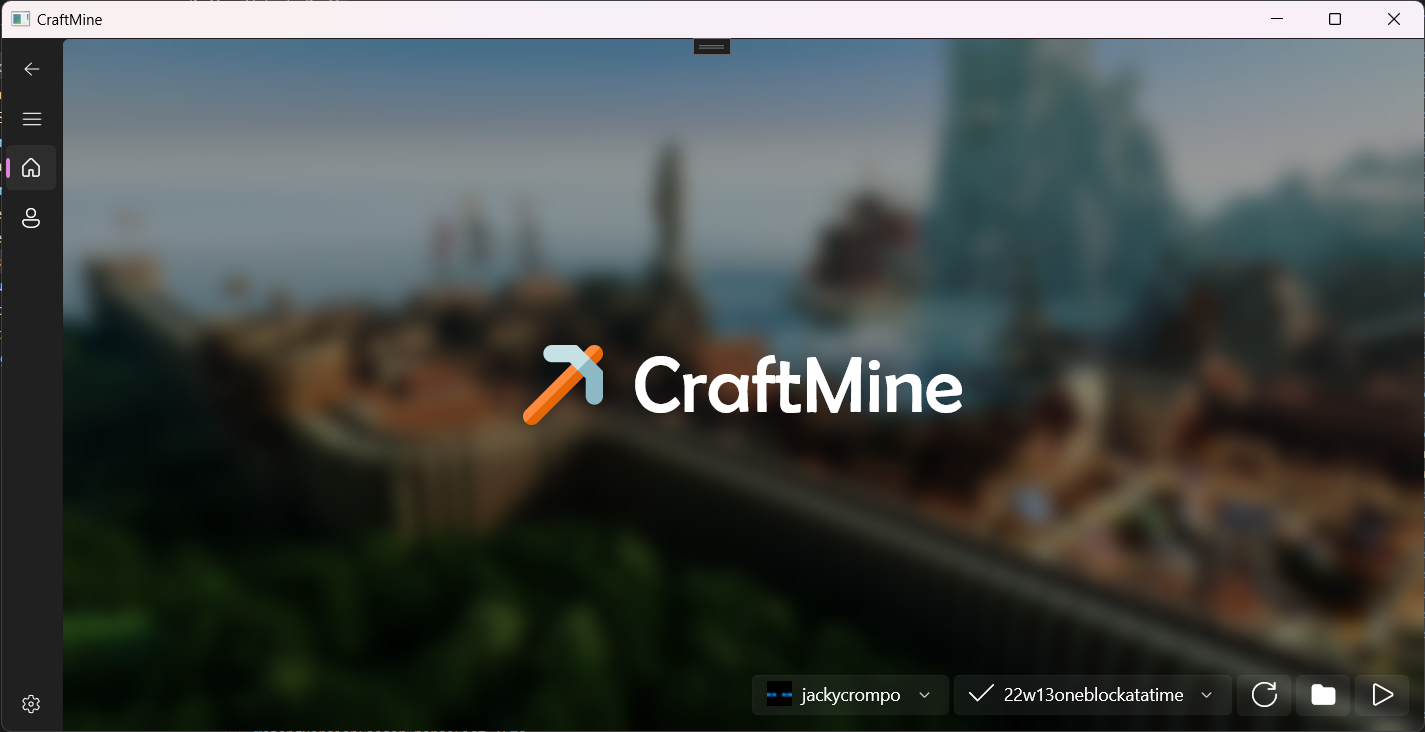
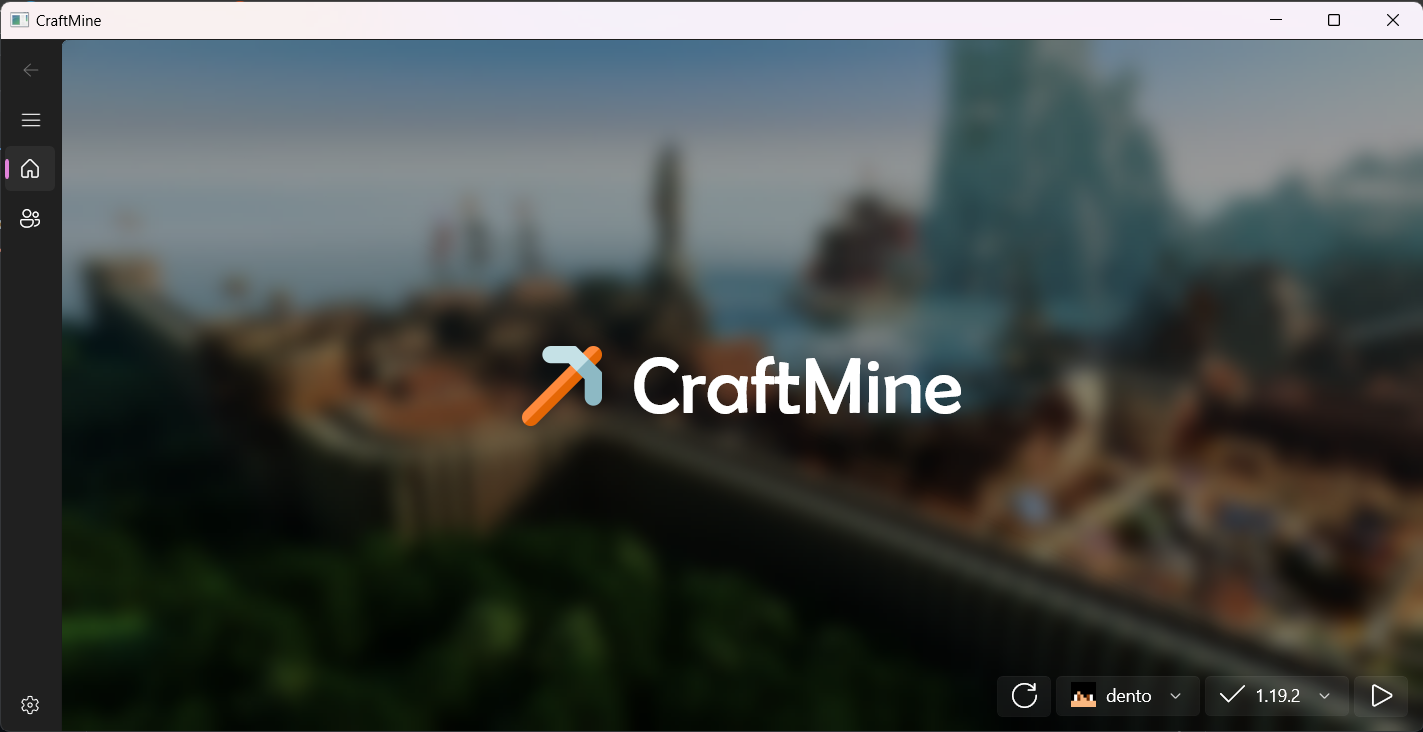
Fixed some issues

diff --git a/CraftMine/Pages/HomePage.xaml b/CraftMine/Pages/HomePage.xaml
@@ -4,7 +4,8 @@
       xmlns:interactivity="using:Microsoft.Xaml.Interactivity"
       xmlns:media="using:CommunityToolkit.WinUI.UI.Media"
       xmlns:models="using:CraftMine.Models"
-      x:Class="CraftMine.Pages.HomePage">
+      x:Class="CraftMine.Pages.HomePage"
+      NavigationCacheMode="Required">
     <Page.DataContext>
         <models:HomePageModel/>
     </Page.DataContext>
@@ -44,13 +45,20 @@
                 </interactions:DataTriggerBehavior>
             </interactivity:Interaction.Behaviors>
             <TextBlock Text="{Binding StatusText}"/>
-            <ProgressBar Value="{Binding StatusProgress}" Width="300"/>
+            <ProgressBar Value="{Binding StatusProgress}"
+                         Width="300"
+                         HorizontalAlignment="Left"/>
         </StackPanel>
         <StackPanel Spacing="4"
                     Orientation="Horizontal"
                     Margin="12"
                     HorizontalAlignment="Right"
                     VerticalAlignment="Bottom">
+            <Button Command="{Binding ReloadCommand}"
+                    HorizontalAlignment="Stretch"
+                    ToolTipService.ToolTip="Reload Accounts &amp; Versions">
+                <SymbolIcon Symbol="Refresh"/>
+            </Button>
             <ComboBox ItemsSource="{Binding Accounts}"
                       SelectedItem="{Binding Account, Mode=TwoWay}">
                 <ComboBox.ItemTemplate>
@@ -73,16 +81,6 @@
                     </DataTemplate>
                 </ComboBox.ItemTemplate>
             </ComboBox>
-            <Button Command="{Binding ReloadCommand}"
-                    HorizontalAlignment="Stretch"
-                    ToolTipService.ToolTip="Reload Accounts &amp; Versions">
-                <SymbolIcon Symbol="Refresh"/>
-            </Button>
-            <Button Command="{Binding OpenGameDirectoryCommand}"
-                    HorizontalAlignment="Stretch"
-                    ToolTipService.ToolTip="Open Game Directory">
-                <SymbolIcon Symbol="Folder"/>
-            </Button>
             <Button Command="{Binding LaunchCommand}"
                     HorizontalAlignment="Stretch"
                     ToolTipService.ToolTip="Launch Game">

diff --git a/CraftMine/Pages/SettingsPage.xaml b/CraftMine/Pages/SettingsPage.xaml
@@ -24,6 +24,12 @@
                             <TextBlock Text="Open Launcher Directory"/>
                         </StackPanel>
                     </Button>
+                    <Button Command="{Binding OpenGameDirectoryCommand}">
+                        <StackPanel Orientation="Horizontal" Spacing="8">
+                            <SymbolIcon Symbol="Folder"/>
+                            <TextBlock Text="Open Game Directory"/>
+                        </StackPanel>
+                    </Button>
                 </StackPanel>
             </StackPanel>
         </Expander>

diff --git a/CraftMine/Pages/MainPage.xaml b/CraftMine/Pages/MainPage.xaml
@@ -7,6 +7,6 @@
                     IsBackEnabled="{Binding CanGoBack, ElementName=ContentView}"
                     SelectionChanged="OnNavigateRequested"
                     BackRequested="OnBackRequested">
-        <Frame x:Name="ContentView" Navigating="OnContentNavigating"/>
+        <Frame x:Name="ContentView" CacheSize="5" Navigating="OnContentNavigating"/>
     </NavigationView>
 </Page>

diff --git a/CraftMine/Models/Pages/HomePageModel.cs b/CraftMine/Models/Pages/HomePageModel.cs
@@ -2,7 +2,6 @@
 using System.Collections.ObjectModel;
 using System.Linq;
 using System.Threading.Tasks;
-using Windows.System;
 using CmlLib.Core;
 using CmlLib.Core.Auth;
 using CmlLib.Core.Version;
@@ -15,12 +14,9 @@ namespace CraftMine.Models;
 public partial class HomePageModel : ObservableObject
 {
 
-    private readonly GameService _gameService = App.GetService<GameService>();
-    private readonly SettingsService _settingsService = App.GetService<SettingsService>();
-
-    [ObservableProperty] private AccountItemModel _account;
+    [ObservableProperty] private AccountItemModel? _account;
     [ObservableProperty] private ObservableCollection<AccountItemModel> _accounts = new();
-    [ObservableProperty] private VersionItemModel _version;
+    [ObservableProperty] private VersionItemModel? _version;
     [ObservableProperty] private ObservableCollection<VersionItemModel> _versions = new();
     [ObservableProperty] private string _statusText;
     [ObservableProperty] private int _statusProgress;
@@ -28,14 +24,14 @@ public partial class HomePageModel : ObservableObject
 
     public HomePageModel()
     {
-        _gameService.Launcher.FileChanged += args => StatusText = string.Format(
+        GameService.Instance.Launcher.FileChanged += args => StatusText = string.Format(
             "[{0}] {1} - {2}/{3}",
             args.FileKind.ToString(),
             args.FileName,
             args.ProgressedFileCount,
             args.TotalFileCount
         );
-        _gameService.Launcher.ProgressChanged += (_, args) => StatusProgress = args.ProgressPercentage;
+        GameService.Instance.Launcher.ProgressChanged += (_, args) => StatusProgress = args.ProgressPercentage;
         ReloadCommand.Execute(null);
     }
 
@@ -43,30 +39,30 @@ public partial class HomePageModel : ObservableObject
     private async Task Reload()
     {
         Accounts.Clear();
-        foreach (var account in _settingsService.Accounts)
+        foreach (var account in SettingsService.Instance.Accounts)
         {
             var item = await Task.Run(() => new AccountItemModel(account));
             Accounts.Add(item);
         }
         Account = (
             from account in Accounts
-            where account.Username == _settingsService.LastAccountUsed
+            where account.Username == SettingsService.Instance.LastAccountUsed
             select account
         ).FirstOrDefault(Accounts.First());
         Versions.Clear();
-        var versions = await _gameService.Launcher.GetAllVersionsAsync();
+        var versions = await GameService.Instance.Launcher.GetAllVersionsAsync();
         foreach (var version in versions)
             switch (version.MType)
             {
                 case MVersionType.Release:
                 case MVersionType.Custom:
-                case MVersionType.Snapshot when _settingsService.ShowSnapshots:
+                case MVersionType.Snapshot when SettingsService.Instance.ShowSnapshots:
                     Versions.Add(new VersionItemModel(version));
                     break;
             }
         Version = (
             from version in Versions
-            where version.Name == _settingsService.LastVersionUsed
+            where version.Name == SettingsService.Instance.LastVersionUsed
             select version
         ).FirstOrDefault(Versions.First());
     }
@@ -74,24 +70,29 @@ public partial class HomePageModel : ObservableObject
     [RelayCommand]
     private async Task Launch()
     {
-        _settingsService.LastAccountUsed = Account.Username;
-        _settingsService.LastVersionUsed = Version.Name;
+        if (Account is null)
+        {
+            await App.AttachDialog("You must select an account.", "Halt!");
+            return;
+        }
+        if (Version is null)
+        {
+            await App.AttachDialog("You must select a version.", "Halt!");
+            return;
+        }
+        SettingsService.Instance.LastAccountUsed = Account.Username;
+        SettingsService.Instance.LastVersionUsed = Version.Name;
         var launchOptions = new MLaunchOption
         {
-            Session = MSession.GetOfflineSession(_settingsService.LastAccountUsed),
-            MaximumRamMb = _settingsService.MemoryAllocation
+            VersionType = "CraftMine",
+            Session = MSession.GetOfflineSession(SettingsService.Instance.LastAccountUsed),
+            MaximumRamMb = SettingsService.Instance.MemoryAllocation,
         };
         IsStatusVisible = true;
-        var gameProcess = await _gameService.Launcher.CreateProcessAsync(_settingsService.LastVersionUsed, launchOptions);
+        var gameProcess = await GameService.Instance.Launcher.CreateProcessAsync(SettingsService.Instance.LastVersionUsed, launchOptions);
         IsStatusVisible = false;
         gameProcess.Start();
         await ReloadCommand.ExecuteAsync(null);
-    }
-
-    [RelayCommand]
-    private async Task OpenGameDirectory()
-    {
-        await Launcher.LaunchFolderPathAsync(_gameService.Launcher.MinecraftPath.BasePath);
     }
 
 }

diff --git a/CraftMine/Models/Pages/SettingsPageModel.cs b/CraftMine/Models/Pages/SettingsPageModel.cs
@@ -54,4 +54,10 @@ public partial class SettingsPageModel : ObservableObject
         await Launcher.LaunchFolderAsync(ApplicationData.Current.LocalFolder);
     }
 
+    [RelayCommand]
+    private async Task OpenGameDirectory()
+    {
+        await Launcher.LaunchFolderPathAsync(GameService.Instance.Launcher.MinecraftPath.BasePath);
+    }
+
 }
